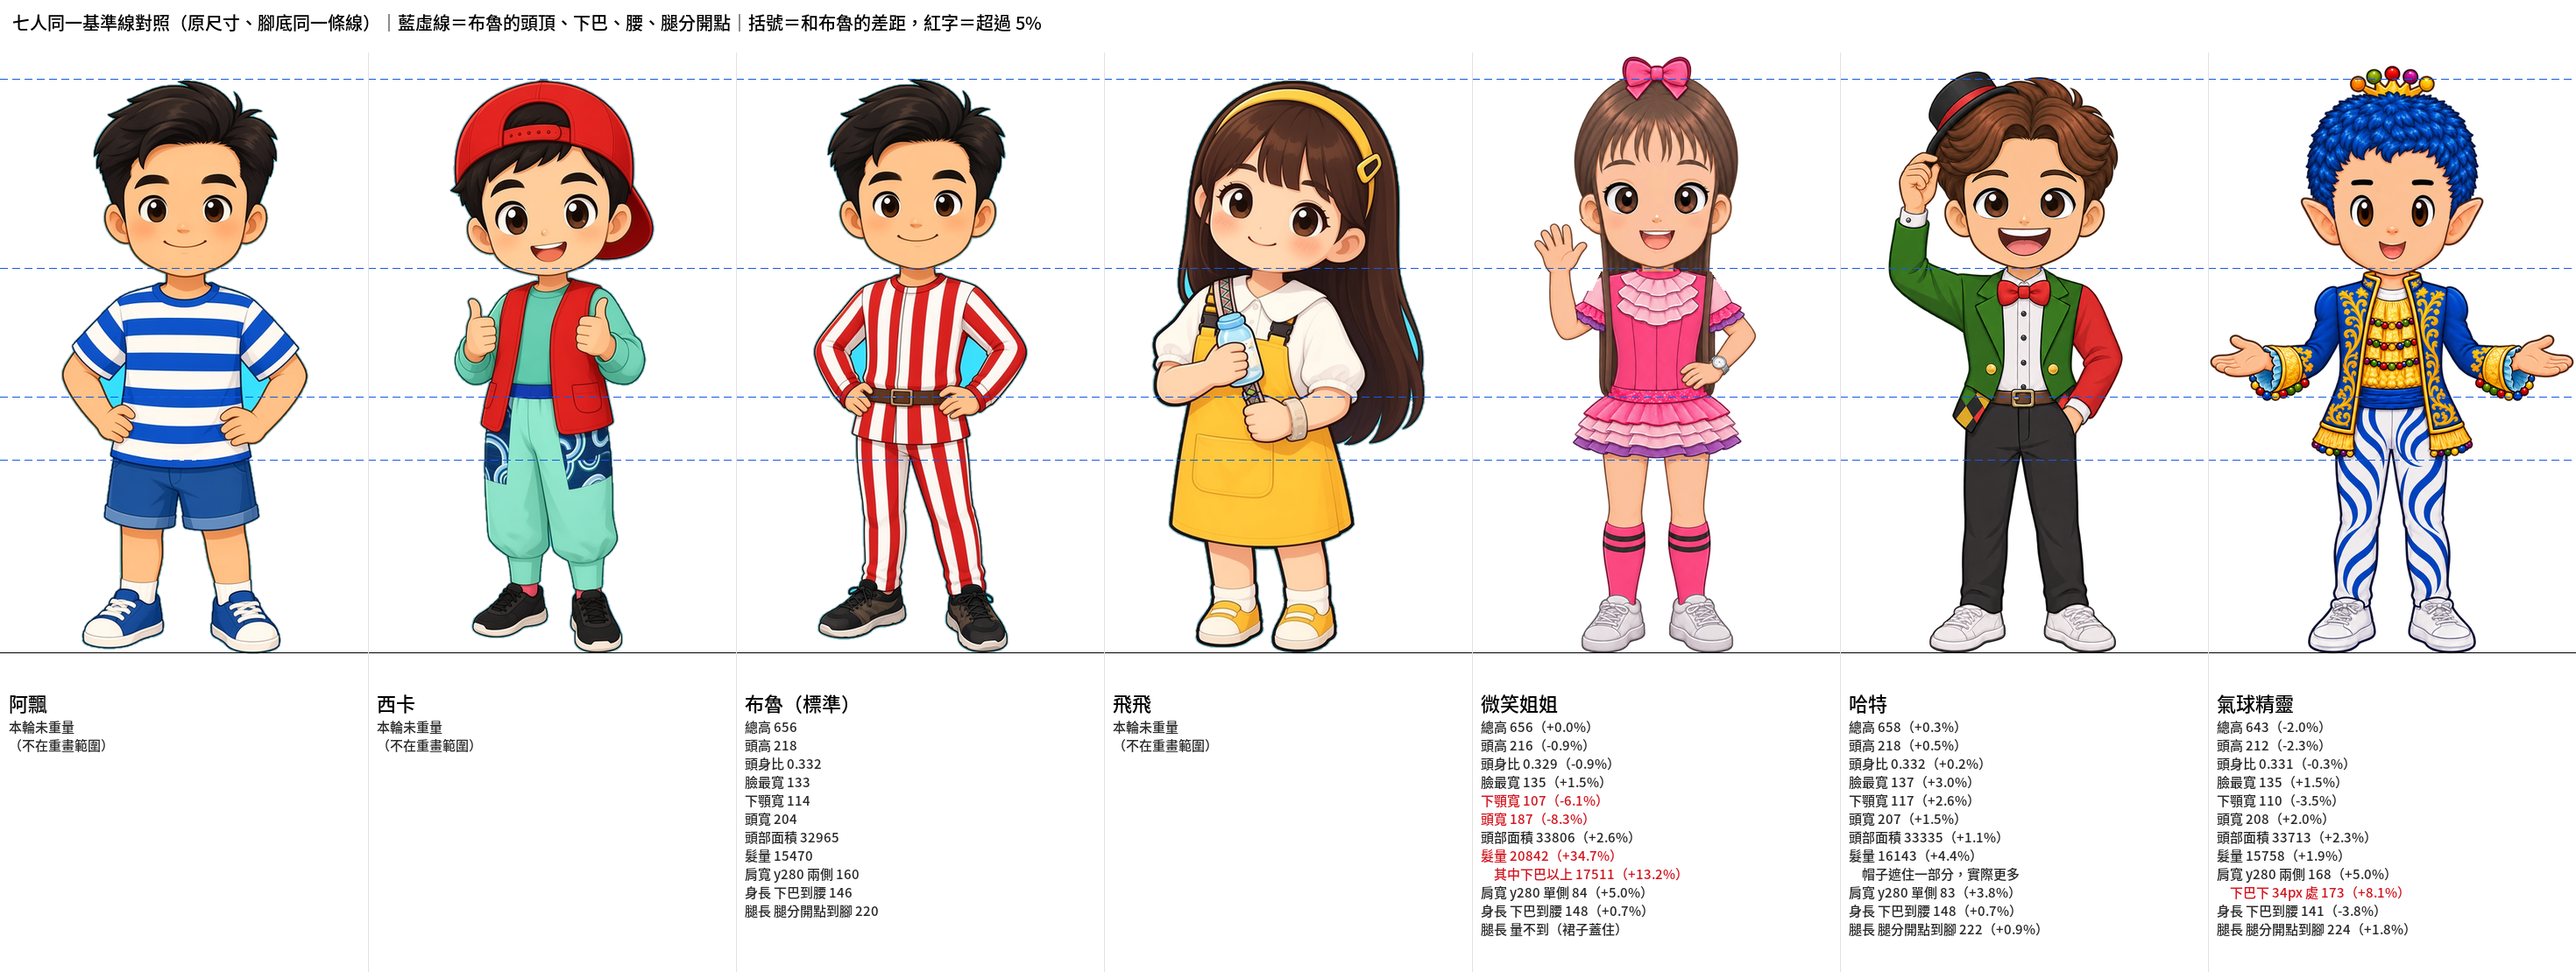
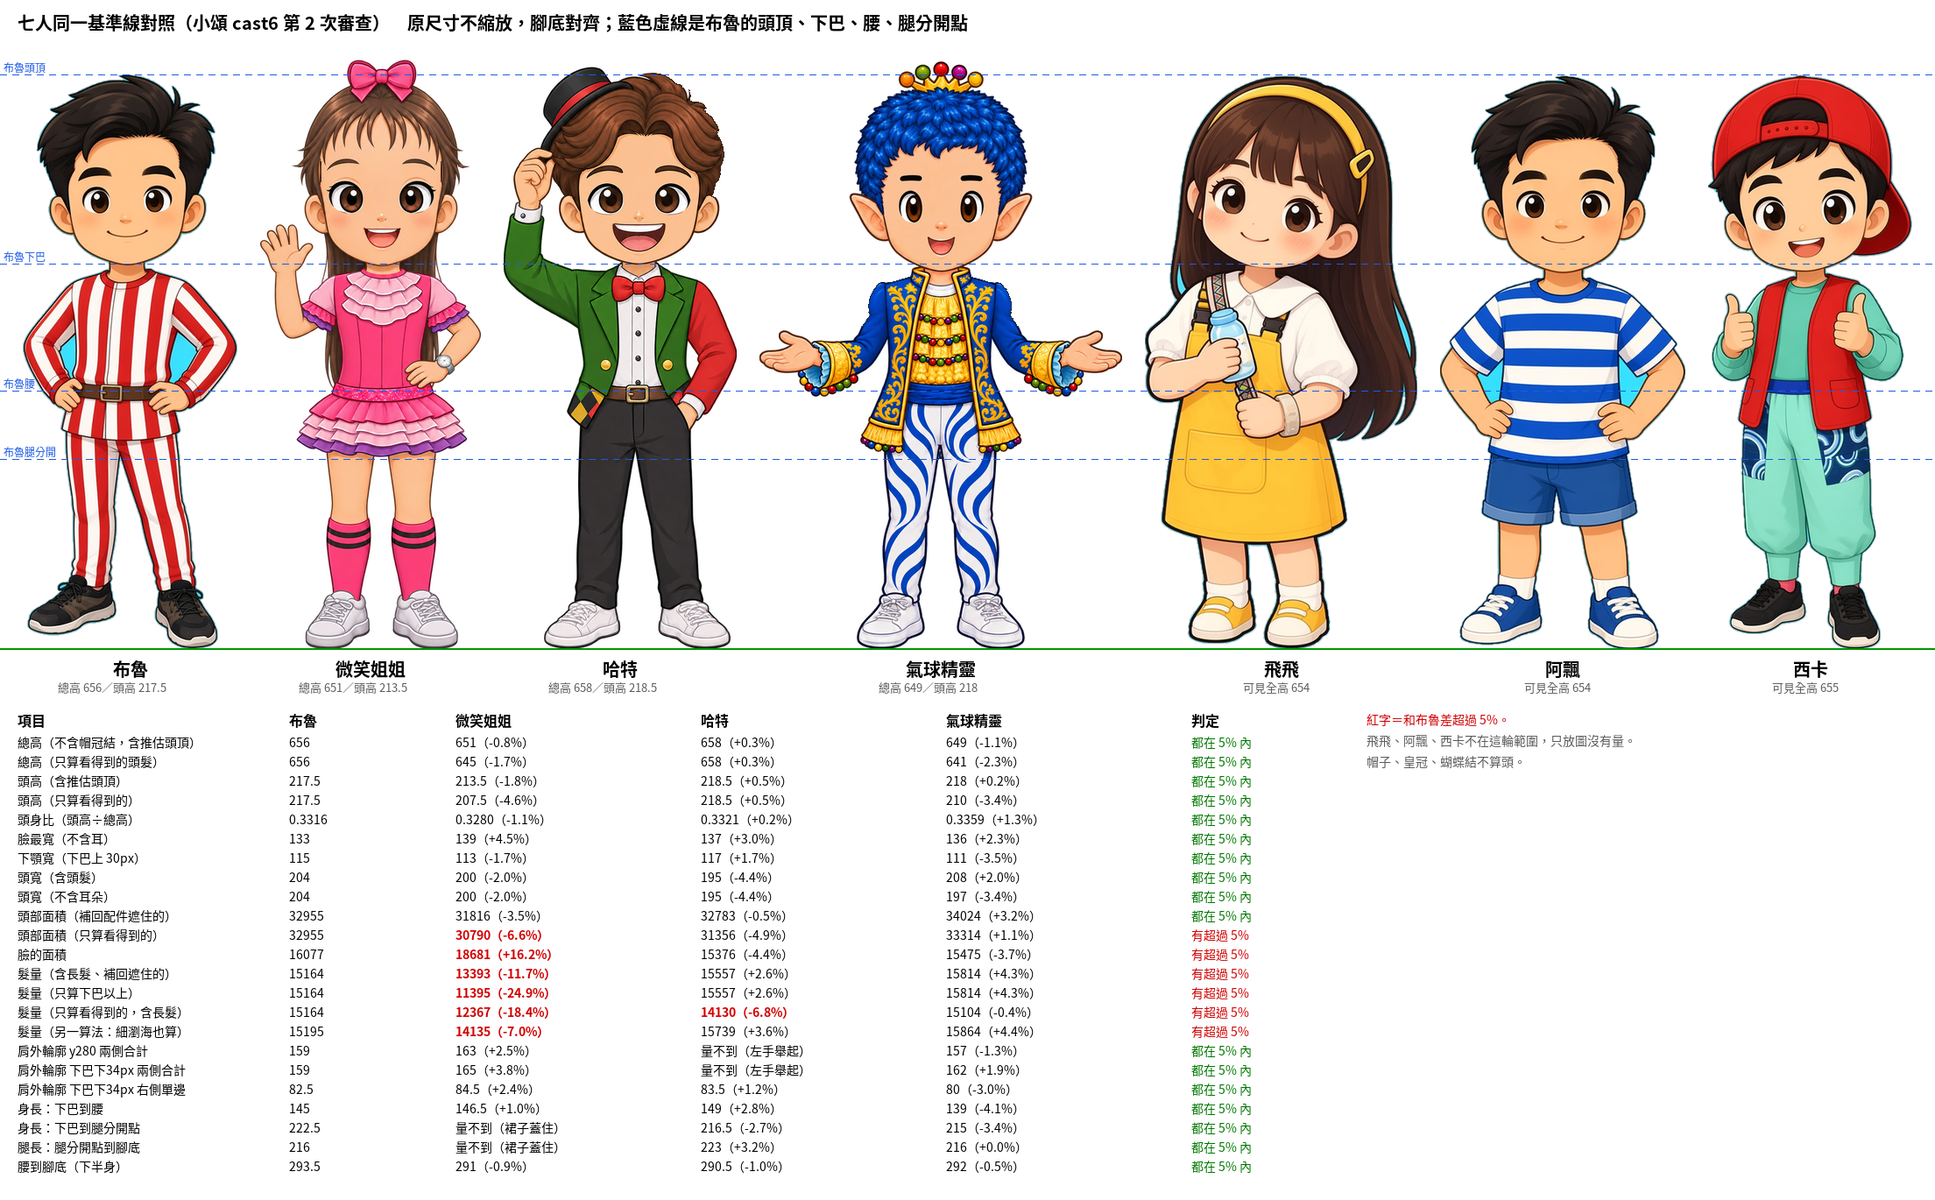
小頌 cast6 第 2 次交叉檢查：審查圖與報告

diff --git a/review/cast6/xiaosong/review-r2.md b/review/cast6/xiaosong/review-r2.md
@@ -1,0 +1,178 @@
+VERDICT: FAIL
+
+# 小頌交叉檢查：PR #5 三人重畫 cast6（第 2 次審查）
+
+小頌，2026-11-11。只檢查，沒有生圖、改圖、commit、push、merge。
+審的是分支 xiaoxia/cast-redraw-v2 的 commit cf53d1e，四張圖的 SHA1 和小夏報告寫的一致。標準是 `assets/chars/bulu.png`。
+這次的量測程式是我自己寫、自己跑的，直接讀像素，沒有用小夏的遮罩或數字。（小夏報告裡「小頌沒有自己執行過」講的是協作橋上那一份，不是這一份。）
+
+## 結論：不通過，維持草稿
+
+哈特和氣球精靈的比例數字這次全部在 5% 內。沒過的有兩件事：
+
+1. **微笑姐姐的頭髮太少。** 連長髮一起算比布魯少 7% 到 12%，只看下巴以上少 20% 到 25%。原因是瀏海畫得很稀、整片額頭露出來，臉的面積比布魯大 16%。這和小夏報告寫的「很可能超標」方向相反：照看得到的像素量，是不足，不是太多。
+2. **哈特右側頭髮、精靈兩邊肩膀是硬切出來的。** 這兩處的數字是靠直接削掉像素達標的，邊緣變成階梯狀鋸齒，沒有其他地方那種平滑的邊。放大看很明顯，正常大小看是邊緣毛毛的。
+
+另外，姐姐的腿長和「下巴到腿分開點」被裙子蓋住，還是量不到。我改量「腰到腳底」，她是 −0.9%，這一項我認為可以接受。
+
+已經做到的：精靈站正對稱、哈特大衣沒有拉長身體、姐姐的頭沒有比布魯大、姐姐頭和身體的接縫不見了、哈特和精靈的臉分得出來、三人動作維持提案、精靈皇冠離上緣 15 px。
+
+## 我怎麼量的
+
+沿用 cast5 和 cast6 第 1 次的定義。四張圖都是 540×720、腳底都在 y685，原圖直接比，沒有縮放。
+
+- 總高：頭髮最高點到腳底。帽子、皇冠、蝴蝶結挖掉不算。
+- 頭高：頭髮最高點到下巴輪廓線（程式沿臉中線往下找）。
+- 頭部面積：下巴以上不透明的像素，挖掉帽子、皇冠、蝴蝶結、舉起的手。
+- 髮量：頭部面積扣掉臉和耳朵。姐姐另外加垂到下巴以下的長髮。
+- 被配件蓋住的頭髮用推估補回：姐姐的蝴蝶結、精靈的皇冠底下用兩側髮頂的圓弧補；哈特被帽子和手蓋住的用右半邊鏡射補。推估值不是看得到的像素，表裡兩種都列。
+- 下顎寬：下巴往上 30 px 那一列的臉寬。臉最寬：整張臉不含耳朵的最寬處。
+- 肩寬：外輪廓，也就是眼睛看到的寬度。量兩個高度：y280、下巴往下 34 px。哈特左手舉起，只量右側。
+- 腰：皮帶或腰帶的中心。
+- 腿長：兩條腿在輪廓上分開的那一點到腳底。布魯褲襠有一小塊沒去乾淨的青色背景，我把它當透明，分開點是 y469（第 1 次我定在 y465）。兩個值算出來哈特和精靈都在 5% 內，結論不變。
+
+布魯這次量到：總高 656、頭高 217.5、臉最寬 133、頭寬 204、頭部面積 32955，和第 1 次（656、217.5、133、204、32965）對得上。
+
+## 逐項數字表
+
+括號內是和布魯的差距，**粗體是超過 5%**。
+
+| 項目 | 布魯 | 微笑姐姐 | 哈特 | 氣球精靈 |
+|---|---:|---:|---:|---:|
+| 總高（不含帽冠結，含推估頭頂） | 656 | 651（−0.8%） | 658（+0.3%） | 649（−1.1%） |
+| 總高（只算看得到的頭髮） | 656 | 645（−1.7%） | 658（+0.3%） | 641（−2.3%） |
+| 頭高（含推估頭頂） | 217.5 | 213.5（−1.8%） | 218.5（+0.5%） | 218（+0.2%） |
+| 頭高（只算看得到的） | 217.5 | 207.5（−4.6%） | 218.5（+0.5%） | 210（−3.4%） |
+| 頭身比（頭高÷總高） | 0.3316 | 0.3280（−1.1%） | 0.3321（+0.2%） | 0.3359（+1.3%） |
+| 臉最寬（不含耳） | 133 | 139（+4.5%） | 137（+3.0%） | 136（+2.3%） |
+| 下顎寬（下巴上 30 px） | 115 | 113（−1.7%） | 117（+1.7%） | 111（−3.5%） |
+| 頭寬（含頭髮） | 204 | 200（−2.0%） | 195（−4.4%） | 208（+2.0%，含尖耳） |
+| 頭寬（不含耳朵） | 204 | 200（−2.0%） | 195（−4.4%） | 197（−3.4%） |
+| 頭部面積（補回配件遮住的） | 32955 | 31816（−3.5%） | 32783（−0.5%） | 34024（+3.2%） |
+| 頭部面積（只算看得到的） | 32955 | **30790（−6.6%）** | 31356（−4.9%） | 33314（+1.1%） |
+| 臉的面積 | 16077 | **18681（+16.2%）** | 15376（−4.4%） | 15475（−3.7%） |
+| 髮量（含長髮、補回遮住的） | 15164 | **13393（−11.7%）** | 15557（+2.6%） | 15814（+4.3%） |
+| 髮量（只算下巴以上，補回遮住的） | 15164 | **11395（−24.9%）** | 15557（+2.6%） | 15814（+4.3%） |
+| 髮量（只算看得到的，含長髮） | 15164 | **12367（−18.4%）** | 14130（−6.8%，帽子蓋住，不列入判定） | 15104（−0.4%） |
+| 髮量（另一種算法：細瀏海也算頭髮） | 15195 | **14135（−7.0%）** | 15739（+3.6%） | 15864（+4.4%） |
+| 肩外輪廓 y280 兩側合計 | 159 | 163（+2.5%） | 量不到（左手舉起） | 157（−1.3%） |
+| 肩外輪廓 下巴下 34 px 兩側合計 | 159 | 165（+3.8%） | 量不到（左手舉起） | 162（+1.9%） |
+| 肩外輪廓 下巴下 34 px 右側單邊 | 82.5 | 84.5（+2.4%） | 83.5（+1.2%） | 80（−3.0%） |
+| 身長：下巴到腰 | 145 | 146.5（+1.0%） | 149（+2.8%） | 139（−4.1%） |
+| 身長：下巴到腿分開點 | 222.5 | 量不到（裙子蓋住） | 216.5（−2.7%） | 215（−3.4%） |
+| 腿長：腿分開點到腳底 | 216 | 量不到（裙子蓋住） | 223（+3.2%） | 216（0.0%） |
+| 腰到腳底（下半身） | 293.5 | 291（−0.9%） | 290.5（−1.0%） | 292（−0.5%） |
+
+逐人判定：
+
+- **哈特**：每項都在 5% 內。髮量和頭部面積用的是「右半邊鏡射補回帽子蓋住的 1427 px」，前提是他頭髮左右對稱。頭寬 −4.4% 貼線。
+- **氣球精靈**：每項都在 5% 內。髮量 +4.3%、下巴到腰 −4.1% 貼線，之後再動頭髮或下半身就要重量。
+- **微笑姐姐**：頭高、頭寬、臉寬、下顎、頭部面積（補回蝴蝶結後）、肩寬、下巴到腰都過。髮量四種算法都不過，臉的面積 +16%。臉最寬 +4.5% 貼線。
+
+和小夏報告的數字對照：
+
+- 總高、頭高、臉寬、下顎寬、頭寬、肩寬、身長到腰、腿長：兩邊差距都在 2% 以內，結論一致。
+- 姐姐頭頂：小夏那份把蝴蝶結底下的頭頂估在 y25（頭高 222），我用兩側髮頂的圓弧估在 y35（頭高 213.5）。看得到的髮頂在 y41。兩種都在 5% 內。
+- 姐姐髮量：小夏列「可見 −9.07%」「補回後 +0.19%（不能判通過）」。我量可見 −18.4%、補回後 −11.7%，把細瀏海也算進去是 −7.0%。差在蝴蝶結底下補多少、長髮收多少。但不管哪一份，看得到的頭髮都是比布魯少超過 5%。
+- 哈特可見髮量：小夏 −16.3%、我 −6.8%，差在帽子邊界畫在哪。補回後她 +1.7%、我 +2.6%，都過。
+
+## 逐項檢查
+
+**精靈有沒有站正對稱：有，通過。**
+整個人左右對折重合度 98.5%，頭 99.2%，中線在 x269.5。兩手攤開高度一致。
+
+**哈特大衣有沒有拉長身體：沒有，通過。**
+大衣尾巴最低在 y428 左右，要求是 y455 以內。皮帶中心 y394.5，布魯 y391.5。疊圖上腰線和布魯重疊。
+
+**姐姐的頭有沒有比布魯大：沒有。**
+頭高 −1.8%、頭寬 −2.0%、頭部面積 −3.5%，都略小、在範圍內。臉最寬 +4.5%。她看起來「臉大」是因為額頭整片露出來，臉的面積比布魯多 16%，不是頭變大。
+
+**長相像不像原設定：臉有回來，瀏海和服裝沒有完全回來。**
+- 姐姐：長直髮、圓眼睛、張嘴笑、頭頂蝴蝶結都在，認得出是她。不一樣的地方：原設定是厚厚一排齊瀏海蓋住額頭、頭髮蓬蓬地披在肩前；新版瀏海剩幾撮細絲、額頭大片露出，頭髮薄薄貼著頭，兩側只各垂一條細髮束到腰。原設定的大喇叭袖變成小短袖。
+- 哈特：中分棕髮、臉像原設定。原設定的大禮帽戴在頭上、及膝菱格長大衣，新版是小帽斜掛頭側、短外套只剩左下角一小片菱格。
+- 精靈：藍色毛絨短髮、黑色短眉、尖耳都在。原設定頭髮只有薄薄一圈、頂著很高的金色小丑冠配大毛球、燈籠褲；新版頭髮是一整顆、皇冠縮成頭頂一小個、褲子是窄管。
+
+哈特的長大衣、精靈的高皇冠和燈籠褲、姐姐的大袖子，和「每項 ≤5%」本來就互相打架，這幾樣是不是接受縮小要我的王決定，我不當成小夏漏做。**姐姐的瀏海不屬於這一類**：把瀏海畫回原設定的厚度不會和任何比例要求衝突，反而能把髮量補回來。
+
+**哈特和精靈的五官是否明顯不同：是，通過。**
+
+| | 哈特 | 精靈 |
+|---|---|---|
+| 眼型 | 寬約 40、高約 36，圓而寬 | 寬約 27、高約 37，直立的橢圓 |
+| 眉毛 | 棕色、粗、弧形，寬約 40 | 黑色、短、平的一橫，寬約 25 |
+| 嘴型 | 寬約 60 的大 D 形露齒笑 | 寬約 30 的小開口笑 |
+| 臉型 | 下巴上 8 px 寬 62、上 15 px 寬 88，下巴圓 | 同位置 53、80，下巴尖，加上尖耳 |
+| 鼻子 | 一個小點 | 一個小點 |
+
+眼、眉、嘴、臉型一眼分得出來。鼻子兩人都是小點，原設定也是這樣。
+
+**動作是否維持提案：是。**
+姐姐揮手（另一手叉腰）、哈特扶帽（另一手插口袋）、精靈雙手攤掌。仍是草稿，等我的王同意。
+
+**有沒有拉伸瑕疵：沒有拉伸，有兩處硬切的邊。**
+- 三張的眼珠都是圓的，線條粗細正常，沒有橫向或直向拉扯。
+- **哈特右側頭髮（x330～385、y25～165）**：整條外緣是階梯狀鋸齒。我量邊緣上半透明像素的比例（平滑的邊會有一圈半透明），這一段是 0%，他自己的頭頂是 21%、耳朵下巴是 25%。
+- **精靈兩邊肩膀（y250～330）**：同樣是鋸齒，半透明邊只有 5%，他自己的頭髮和腿是 35%。肩膀上緣被削平，y300 附近還有一個凹口。
+- 這兩處正好是小夏報告寫「收窄右側髮輪廓」「修小蓬袖外輪廓」的地方。數字是過了，但做法是直接削掉像素，沒有重畫邊緣。放大圖在 `review/cast6/xiaosong/detail-hard-edges.png`，旁邊放了布魯的肩膀當對照。
+- 精靈補畫的褲襠縫：放大看是一條正常的深色縫線，沒有破綻。腿分開點因此從第 1 次的 y460 變成 y469，這是補畫出來的結果，提供我的王知道。
+- 姐姐頭和身體的接縫：第 1 次看到的水平切線不見了，領口、肩膀、髮束都連得起來。
+- 姐姐的光腿比布魯的長褲細（y520 單腿寬 41 對 51～56），整個人比布魯瘦一圈。這是角色設定造成的，不算瑕疵。
+
+## 問題
+
+1. 姐姐髮量不足，沒過 5%。
+2. 哈特頭髮右緣、精靈兩肩是硬切鋸齒邊，屬於修圖瑕疵。
+3. 姐姐的腿長、下巴到腿分開點量不到（裙子蓋住），只能用腰到腳底代替。
+4. 哈特的髮量和頭部面積靠對稱推估才過，帽子底下實際多少看不到。
+5. 服裝招牌縮小（禮帽、長大衣、高皇冠、燈籠褲、大袖子）和三人動作，還沒有我的王的決定。
+
+## 建議
+
+1. 姐姐：瀏海畫回原設定那種厚齊瀏海，蓋住額頭；頭頂和兩側的頭髮加厚一點。臉的面積會跟著降下來，髮量補回約 1000 到 1800 px 就能進 5%。頭的外輪廓現在是對的，加髮時不要把頭寬（200）和頭高再撐大。
+2. 哈特、精靈：被削過的那幾段邊緣重新描邊、做回平滑的邊，形狀和寬度不要再動。精靈肩膀 y300 的凹口順便修順。修完肩寬、頭寬要重量，兩人都有貼線的項目。
+3. 姐姐腿長請我的王定一句話：裙子蓋住量不到的，是不是用「腰到腳底」代替就好。
+4. 哈特請我的王定一句話：被帽子蓋住的頭髮用對稱推估，可不可以接受。
+5. 服裝招牌和三人動作請我的王看七人對照圖直接決定。
+6. 舊問題提醒：布魯兩手叉腰圍出來的三角形和褲襠下面，還留著青藍色背景沒去掉。不在這輪範圍，建議另外修。
+
+## 圖檔位置
+
+我做的圖（repo 內相對路徑，worktree 在 `/Volumes/外接資料碟/ai-lab/fantaco-cast-v2`，只放檔案沒有 git add 或 commit）：
+
+- `review/cast6/xiaosong/overlay-jiejie-vs-blue.png`
+- `review/cast6/xiaosong/overlay-hate-vs-blue.png`
+- `review/cast6/xiaosong/overlay-spirit-vs-blue.png`
+- `review/cast6/xiaosong/cmp-seven.png`
+- `review/cast6/xiaosong/detail-hard-edges.png`（這次新增）
+
+前四張蓋掉了我第 1 次審查的同名圖，舊版在 commit e43e801 裡。三張疊圖都是兩人各 50% 透明、腳底對齊 y685、原尺寸不縮放；左邊原圖相疊，右邊輪廓線（藍色布魯、紅色對照角色），標出頭頂、下巴、腰、腿分開點。七人對照圖是七人原尺寸站在同一條腳底線上，藍虛線是布魯的頭頂、下巴、腰、腿分開點，下方是布魯和三人的數字表，超過 5% 用紅字。飛飛、阿飄、西卡不在這輪範圍，只放圖沒有量。
+
+同資料夾的 `review/cast6/xiaosong/review-r1.md` 是第 1 次審查的文字，這次沒動。
+
+小夏的圖（同一個 repo）：
+
+- `review/cast6/overlay-jiejie-vs-blue.png`
+- `review/cast6/overlay-hate-vs-blue.png`
+- `review/cast6/overlay-spirit-vs-blue.png`
+- `review/cast6/cmp-cast.png`
+- `review/cast6/cmp-faces.png`
+- `review/cast6/before-after-jiejie.png`
+- `review/cast6/before-after-hate.png`
+- `review/cast6/before-after-spirit.png`
+- `review/cast6/detail-jiejie.png`
+- `review/cast6/detail-spirit.png`
+- `review/cast6/detail-spirit-crotch.png`
+- `review/cast6/mask-audit.png`
+- `review/cast6/mask-bulu.png`、`mask-jiejie.png`、`mask-hate.png`、`mask-spirit.png`
+- `review/cast6/mask-<bulu|jiejie|hate|spirit>-face-binary.png`、`-hair-binary.png`、`-ears-binary.png`
+- `review/cast6/mask-jiejie-long-hair-binary.png`
+- `review/cast6/xiaosong-r2/overlay-<bulu|jiejie|hate|spirit>.png`
+- `review/cast6/xiaosong-r2/seam-jiejie-alpha-x4.png`、`seam-jiejie-color-x4.png`
+- `review/cast6/xiaosong-r2/mask-<bulu|jiejie|hate|spirit>-<ears|excluded|face|hair|hand|head|head_est|hidden|hidden_circle|long|long_zone|neck|upper>.png`
+- 數字與說明：`review/cast6/measurements.md`、`review/cast6/visible-measurements.md`、`review/cast6/README.md`、`review/cast6/xiaosong-r2/review-final.md`
+
+小夏的這些圖這次我沒有逐張打開核對，結論全部來自自己重量的數字和自己做的圖。`xiaosong-r2/` 那份是協作橋上由小夏代跑的，和這份獨立審查有出入的地方（主要是姐姐髮量）以這份為準。
+
+## 清理
+
+量測用的暫存資料夾 `/Volumes/外接資料碟/AI工作/暫存/cast6-review2/`（程式、原設定圖、放大格線圖）已刪除。worktree 裡只動了 `review/cast6/xiaosong/` 的五張圖，沒有動其他檔案。沒有開 Photoshop 或 Illustrator，pgrep 確認兩個都沒有程序。
